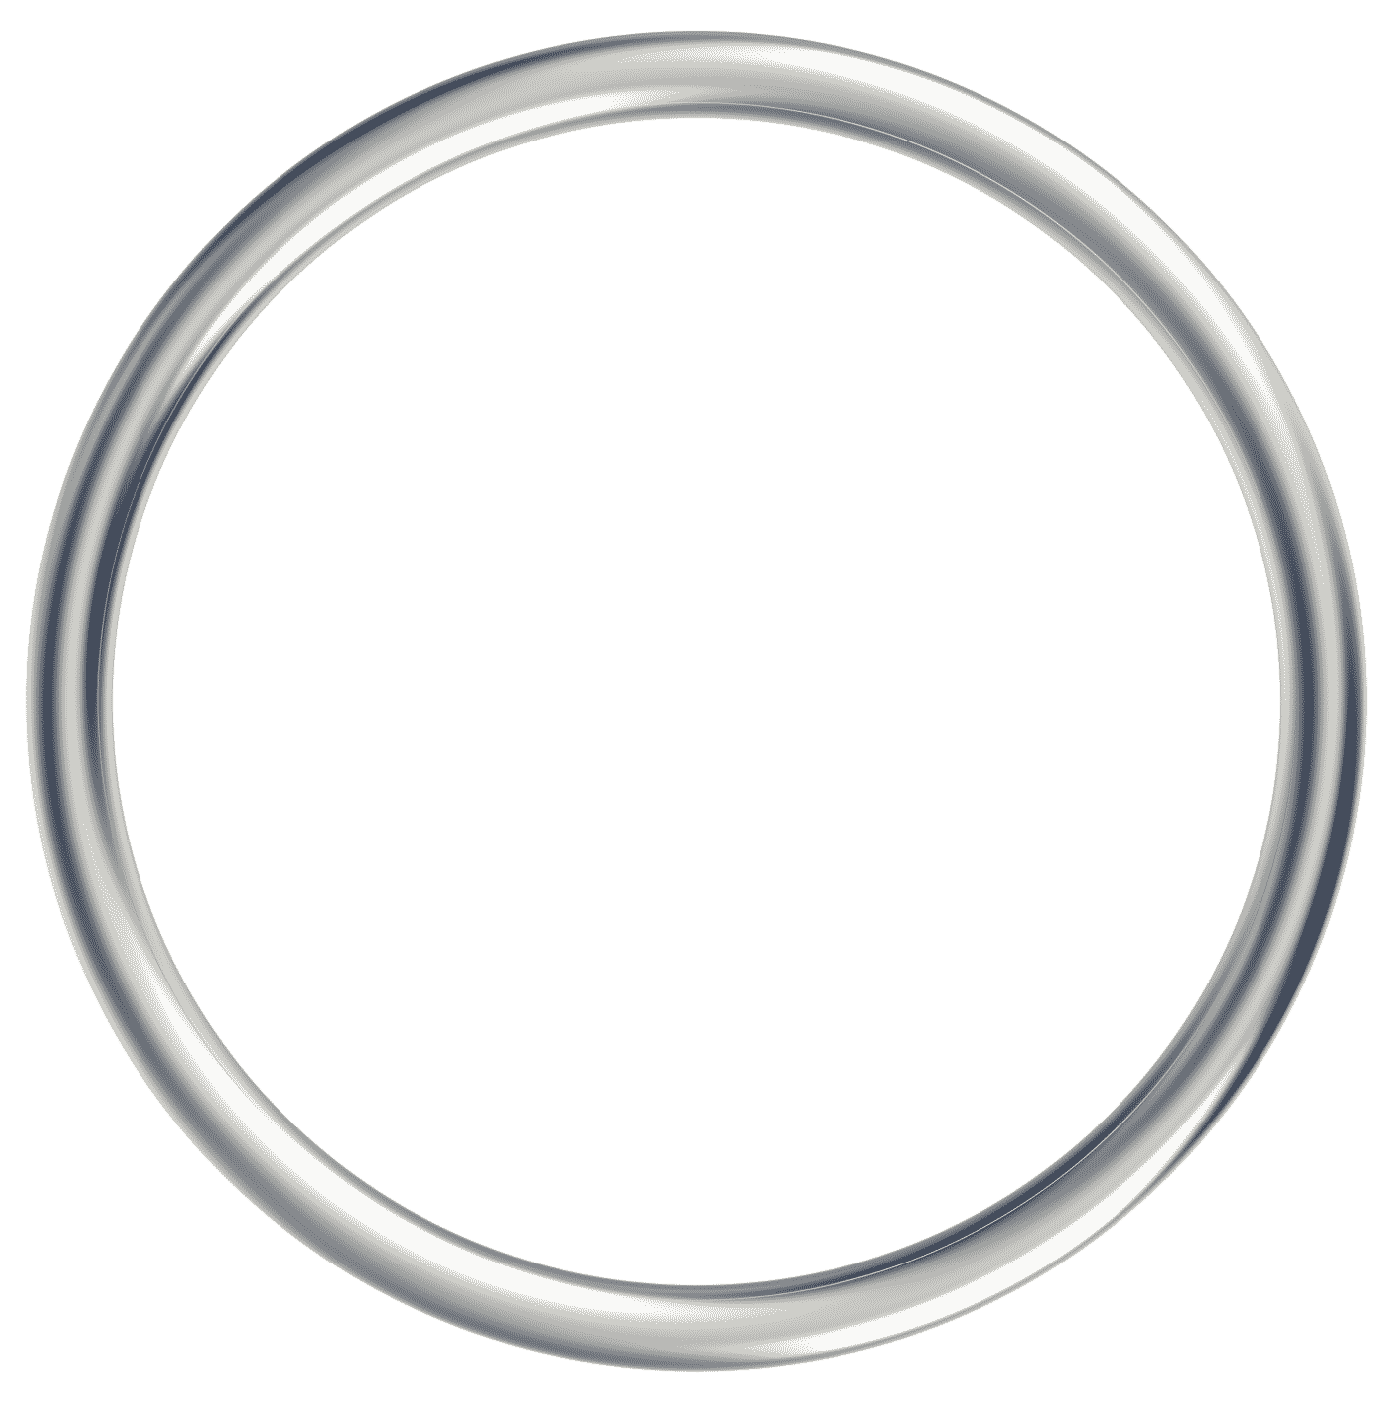
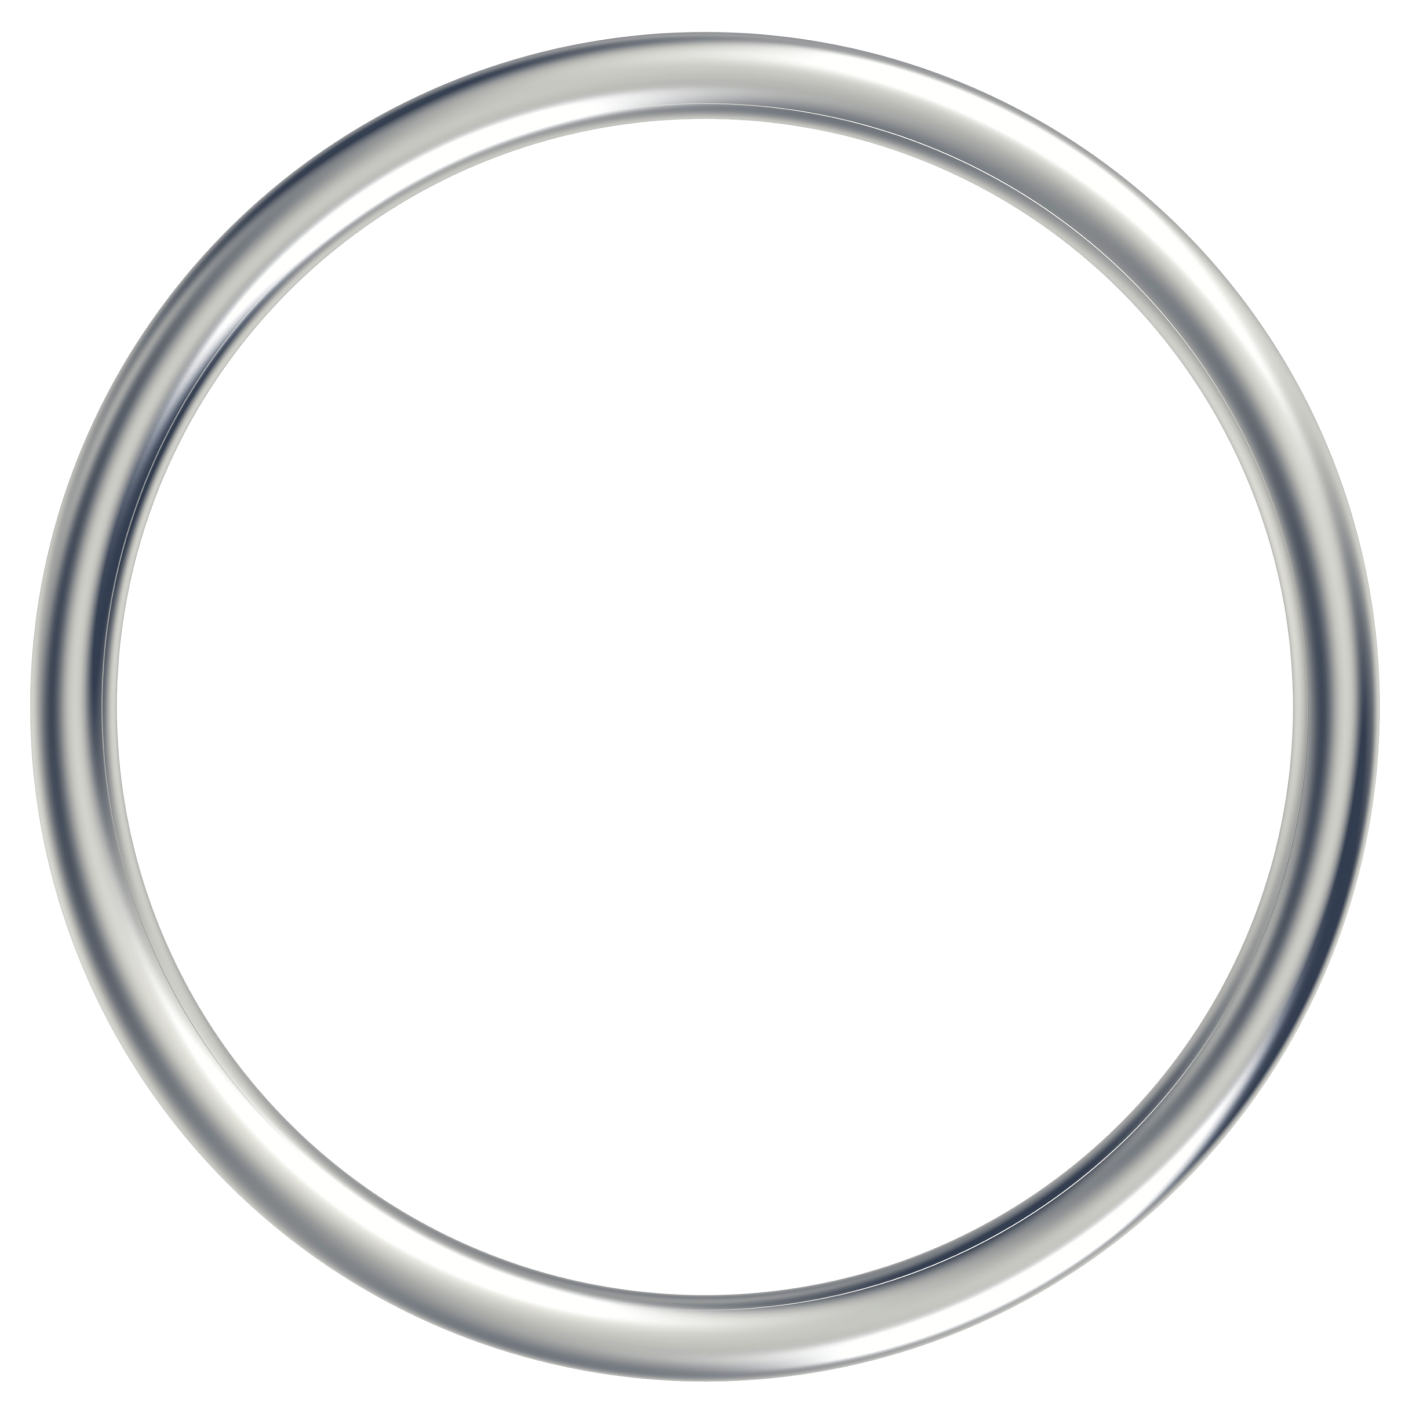
.

diff --git a/src/components/Loader.tsx b/src/components/Loader.tsx
@@ -1,12 +1,15 @@
 import { images } from "assets/index";
 import Heading from "components/ui/Heading";
 import siteContent from "const/siteContent";
-
+import { useState } from "react";
 
 export default function Loader() {
-  const isLoading = () =>
-    document.readyState === "complete" ? "hidden" : "inline";
+  const [display, setDisplay] = useState<"hidden" | "inline">("hidden");
 
+  document.onreadystatechange = () => {
+    document.readyState === "complete" && setDisplay("hidden");
+    document.readyState !== "complete" && setDisplay("inline");
+  };
 
   return (
     <div
@@ -15,7 +18,7 @@ export default function Loader() {
         "fixed",
         "z-100",
         "bg-gradient-to-b from-cyan-100 to-blue-100",
-        isLoading(),
+        display,
       ].join(" ")}
     >
       <div className="flex items-center justify-center w-full h-full relative">

diff --git a/src/components/ProductsInfo.tsx b/src/components/ProductsInfo.tsx
@@ -128,18 +128,18 @@ export default function ProductsInfo() {
           )}
         </div>
       </ContentContainer>
-      <div className="absolute w-full h-full blur-sm drop-shadow-lg opacity-8 lg:opacity-30">
+      <div className="absolute w-full h-full  drop-shadow-lg opacity-8 lg:opacity-30">
         <img
           src={images.silverRing}
-          className="absolute w-200 -left-100 top-20% "
+          className="absolute w-200 -left-100 top-20%"
         />
         <img
           src={images.silverRing}
-          className="absolute w-150 -right-75 -top-75 "
+          className="absolute w-150 -right-75 -top-75"
         />
         <img
           src={images.silverRing}
-          className="absolute w-100 -right-30 -bottom-50 "
+          className="absolute w-100 -right-30 -bottom-50"
         />
       </div>
     </div>

diff --git a/src/App.tsx b/src/App.tsx
@@ -8,13 +8,13 @@ import OurClients from "components/OurClients";
 import Contact from "components/Contact";
 import Promise from "components/Promise";
 import Footer from "components/Footer";
-/* import Loader from "components/Loader"; */
+import Loader from "components/Loader"; 
 
 export default function App() {
 
   return (
     <div className="font-(500 sans) text-dark">
-      {/* <Loader/> */}
+      <Loader/>
       <HeaderNav />
       <Hero />
       <AddedValue />

diff --git a/src/components/Hero.tsx b/src/components/Hero.tsx
@@ -27,9 +27,9 @@ export default function HeaderNav() {
 
             ></div>
             <img
-              className="aspect-square w-full relative"
+              className="aspect-square w-full relative "
               src={images.addedValueGraph}
-              style={{filter: 'drop-shadow(0px 20px 20px rgba(0, 0, 0, 0.3))'}}
+              style={{filter: "drop-shadow(0px 20px 10px rgba(0,48,119,0.3))"}}
             />
           </div>
         </div>

diff --git a/src/components/AddedValue.tsx b/src/components/AddedValue.tsx
@@ -10,7 +10,7 @@ export default function AddedValue() {
       className="bg-cover flex justify-center bg-right-top pb-25 pt-30 lg:pt-50 sm:pt-40"
       style={{
         backgroundImage: `url(${images.whiteDiagonalClipedBg})`,
-        filter: "drop-shadow(0px -20px 10px rgba(128, 128, 128, 0.2))",
+        filter: "drop-shadow(0px -20px 10px rgba(0,48,119,0.1))",
       }}
     >
       <ContentContainer>

diff --git a/README.md b/README.md
@@ -1,3 +1,3 @@
 # ARGENTO WEBPAGE
 
-Web page for the family products of @Argento Software. 
+Web page for @Argento Software. 
